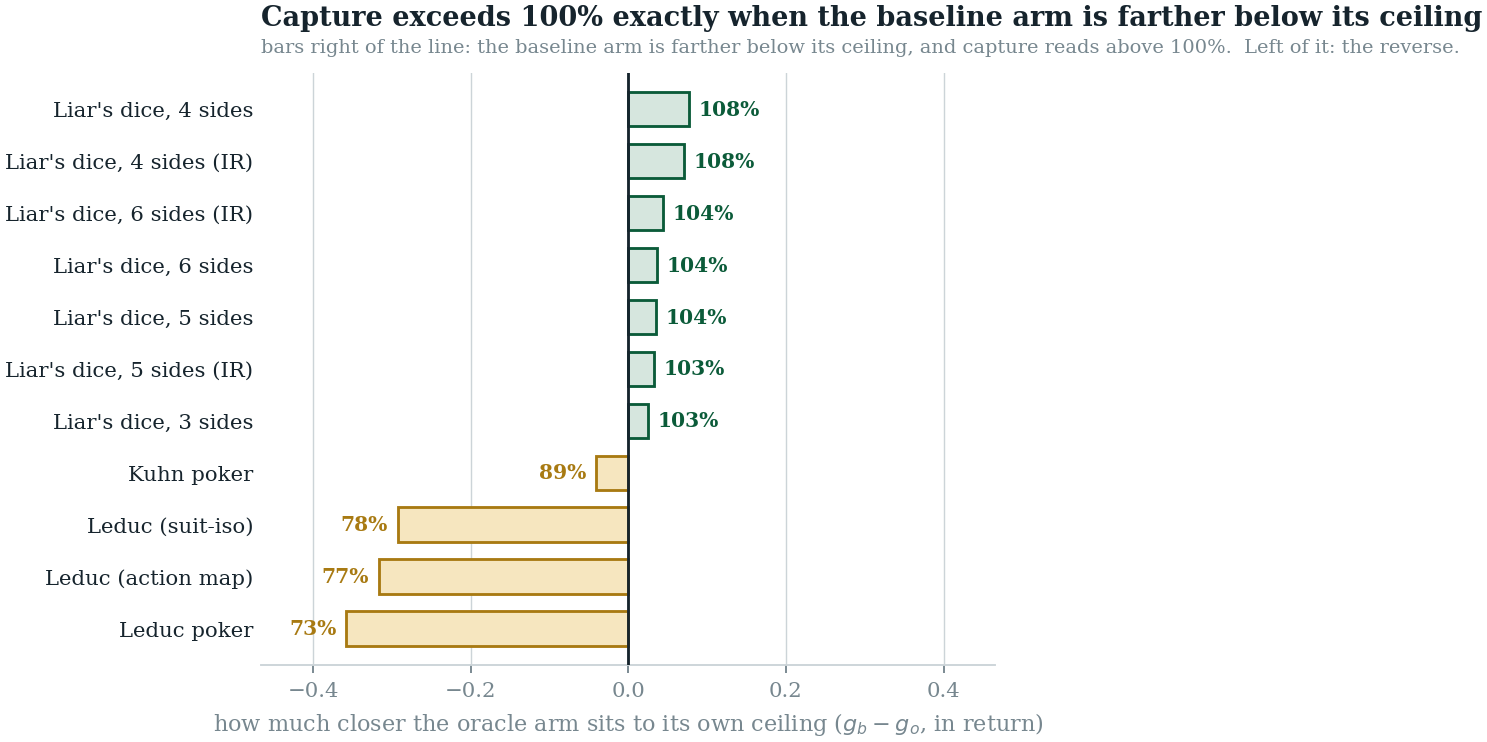
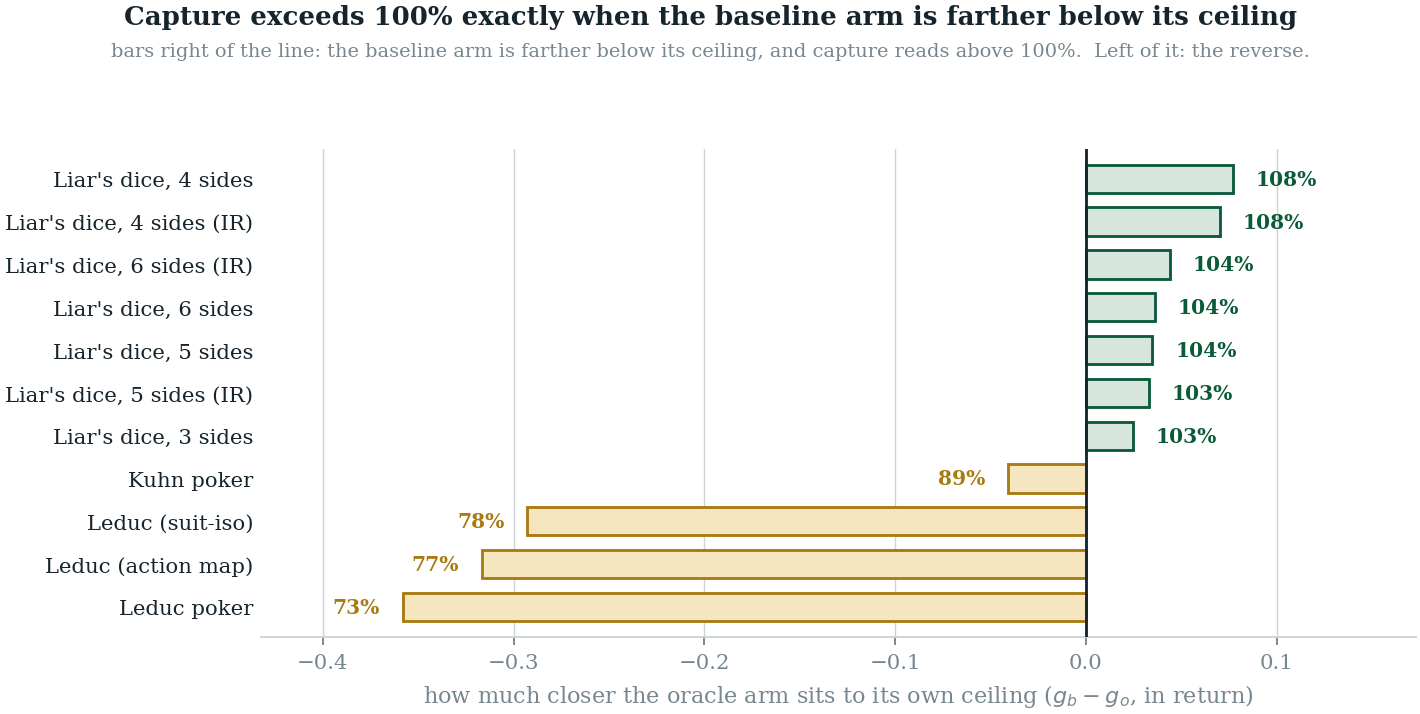
centre Figure 4 and stop it wasting half its axes
The x limits were symmetric while the bars run -0.36 to +0.08, so the right
half of the plot was empty and the whole thing sat left. The limits now fit the
data with room for the labels.

The title also belonged to the axes, and the axes start well right of the page
margin because the game names are long, so the title read as shifted. It is a
figure-level title now, centred on the full width, with the note under it.
Canvas widened from 7.4 to 8.6 inches.

Checked: zero overlapping word pairs, title and subtitle clear of each other.

diff --git a/scripts/probe_figures_v3.py b/scripts/probe_figures_v3.py
@@ -195,7 +195,7 @@ def fig_mechanism():
     y = np.arange(len(items))
     diffs = [d for d, *_ in items]
 
-    fig, ax = plt.subplots(figsize=(7.4, 4.6))
+    fig, ax = plt.subplots(figsize=(8.6, 4.4))
     for i, (d, lab, cap, gb, go) in enumerate(items):
         c, cl = (TEAL, TEAL_L) if cap > 1 else (GOLD, GOLD_L)
         ax.barh(i, d, height=0.66, color=cl, edgecolor=c, lw=1.2, zorder=3)
@@ -205,20 +205,22 @@ def fig_mechanism():
     ax.axvline(0, color=INK, lw=1.2, zorder=4)
     ax.set_yticks(y); ax.set_yticklabels([lab for _, lab, *_ in items], fontsize=9, color=INK)
     ax.set_ylim(-0.7, len(items) - 0.3)
-    span = max(abs(min(diffs)), abs(max(diffs)))
-    ax.set_xlim(-span * 1.30, span * 1.30)
+    lo, hi = min(diffs), max(diffs)
+    pad = (hi - lo) * 0.10
+    ax.set_xlim(lo - pad * 1.7, hi + pad * 2.2)
     ax.set_xlabel("how much closer the oracle arm sits to its own ceiling "
                   "($g_b - g_o$, in return)")
     # "easier to learn" asserts a cause the identity does not establish; state the relation instead
-    ax.set_title("Capture exceeds 100% exactly when the baseline arm is farther below its ceiling",
-                 pad=20)
+
     ax.xaxis.grid(True); ax.tick_params(axis="y", length=0)
     for spine in ("top", "right", "left"):
         ax.spines[spine].set_visible(False)
-    ax.text(0.0, 1.035, "bars right of the line: the baseline arm is farther below its ceiling, "
-            "and capture reads above 100%.  Left of it: the reverse.",
-            transform=ax.transAxes, fontsize=8.2, color=MUTED)
-    fig.tight_layout(); save(fig, "fig_mechanism")
+    fig.suptitle("Capture exceeds 100% exactly when the baseline arm is farther below its ceiling",
+                 fontsize=11, fontweight="bold", color=INK, y=0.975)
+    fig.text(0.5, 0.905, "bars right of the line: the baseline arm is farther below its ceiling, "
+             "and capture reads above 100%.  Left of it: the reverse.",
+             ha="center", fontsize=8.2, color=MUTED)
+    fig.tight_layout(rect=[0, 0, 1, 0.885]); save(fig, "fig_mechanism")
 
 
 def fig_capacity():
